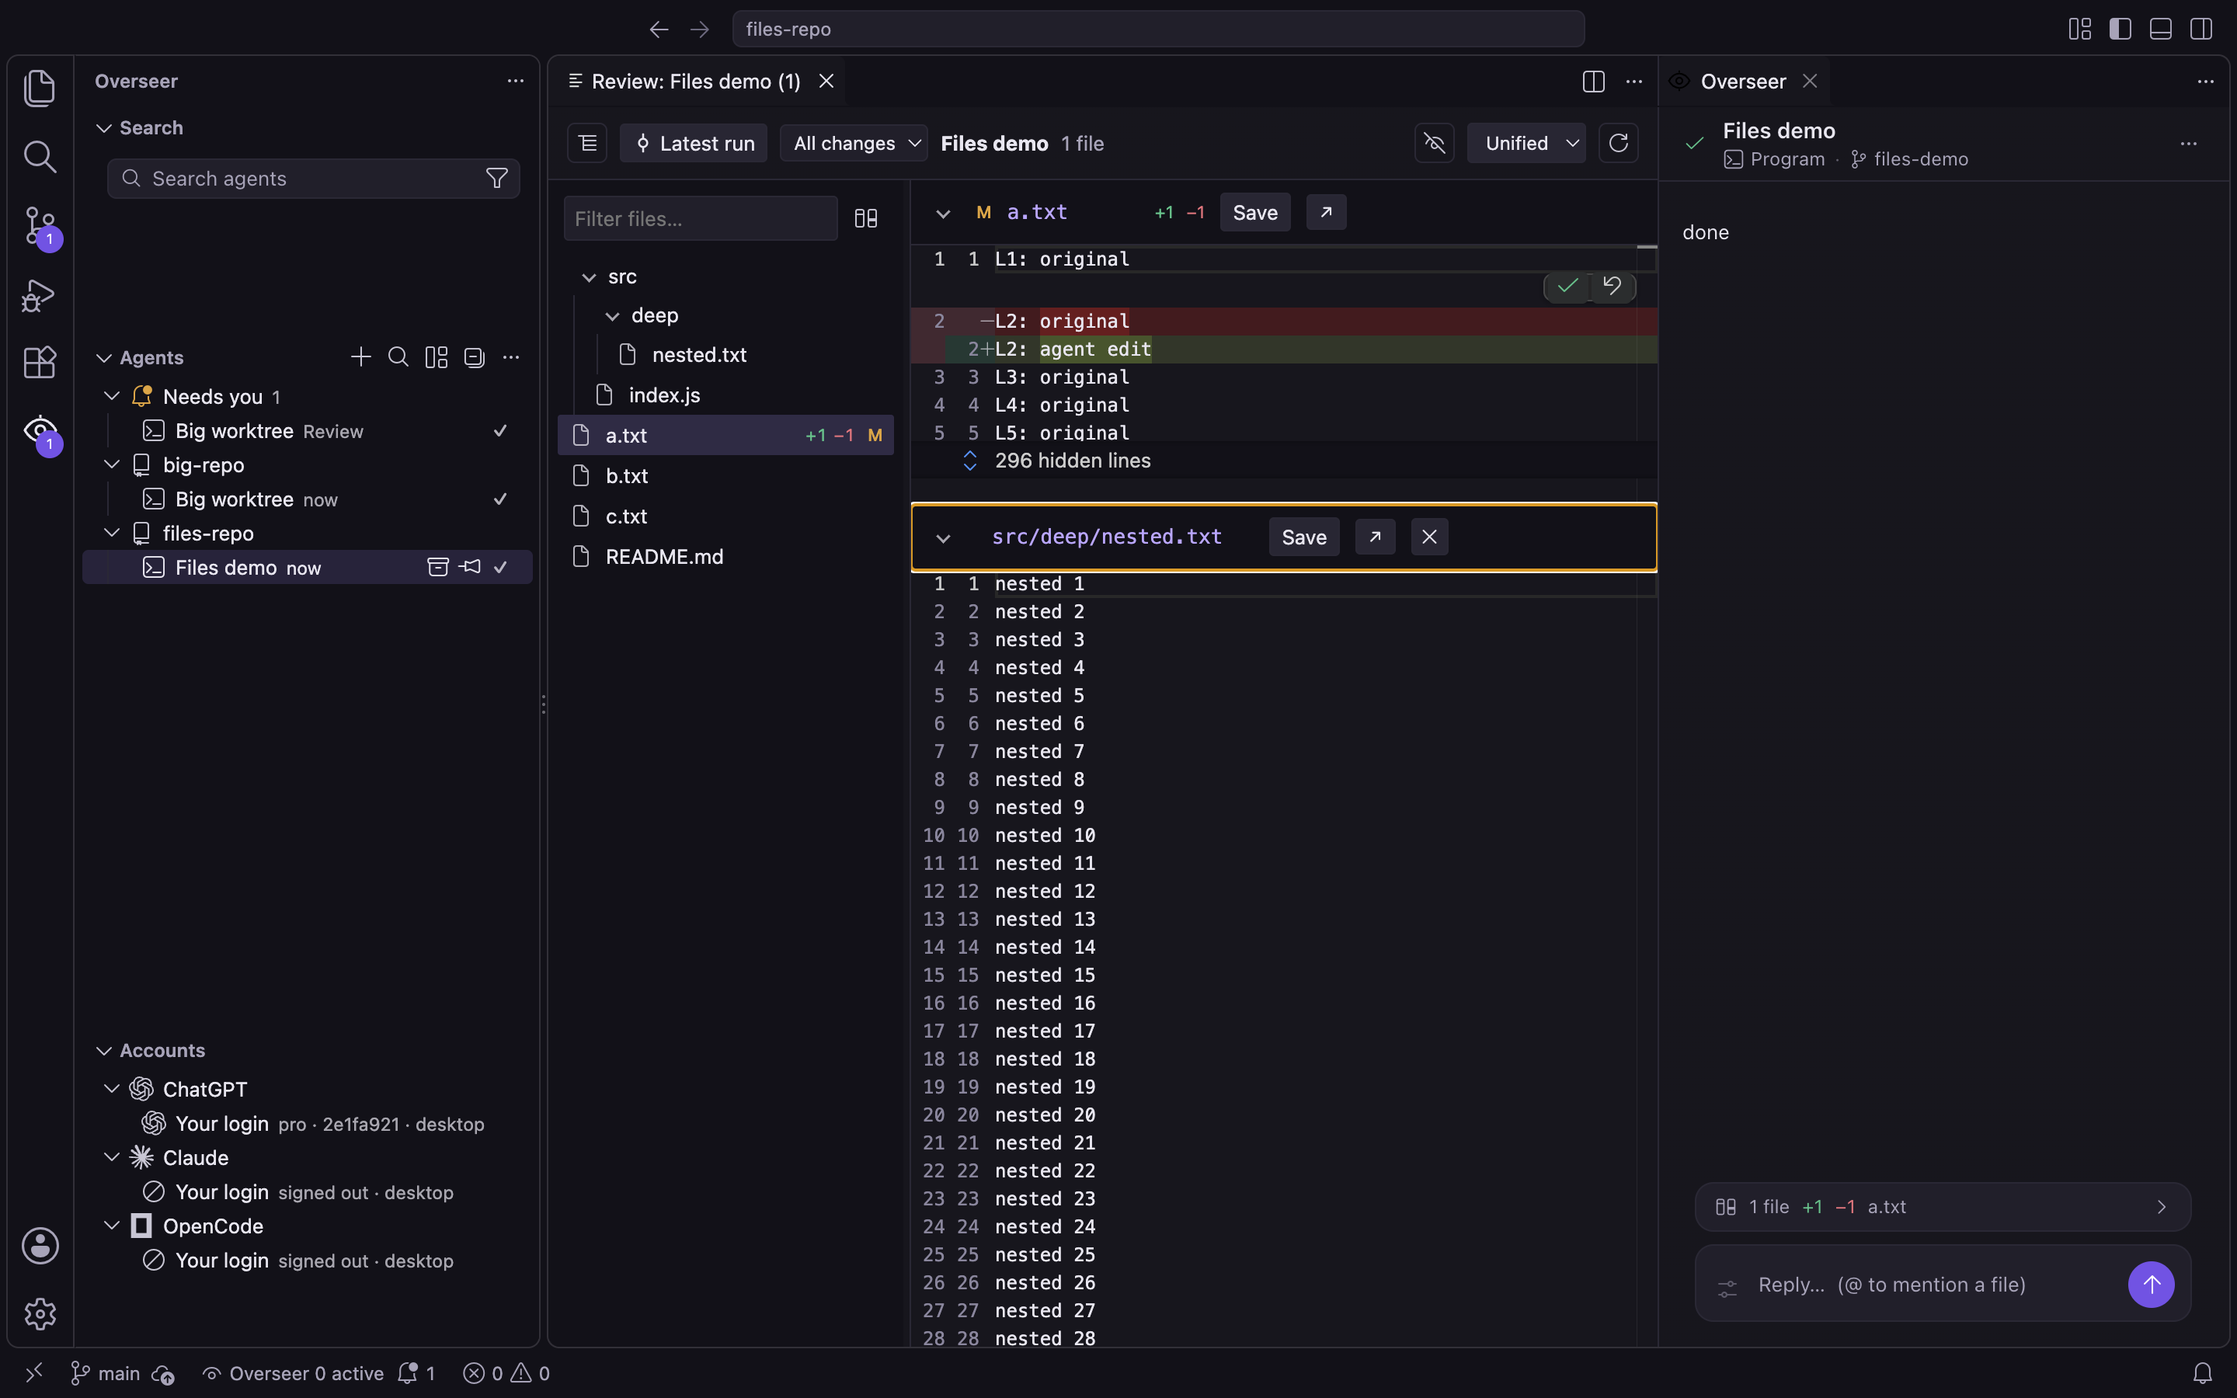
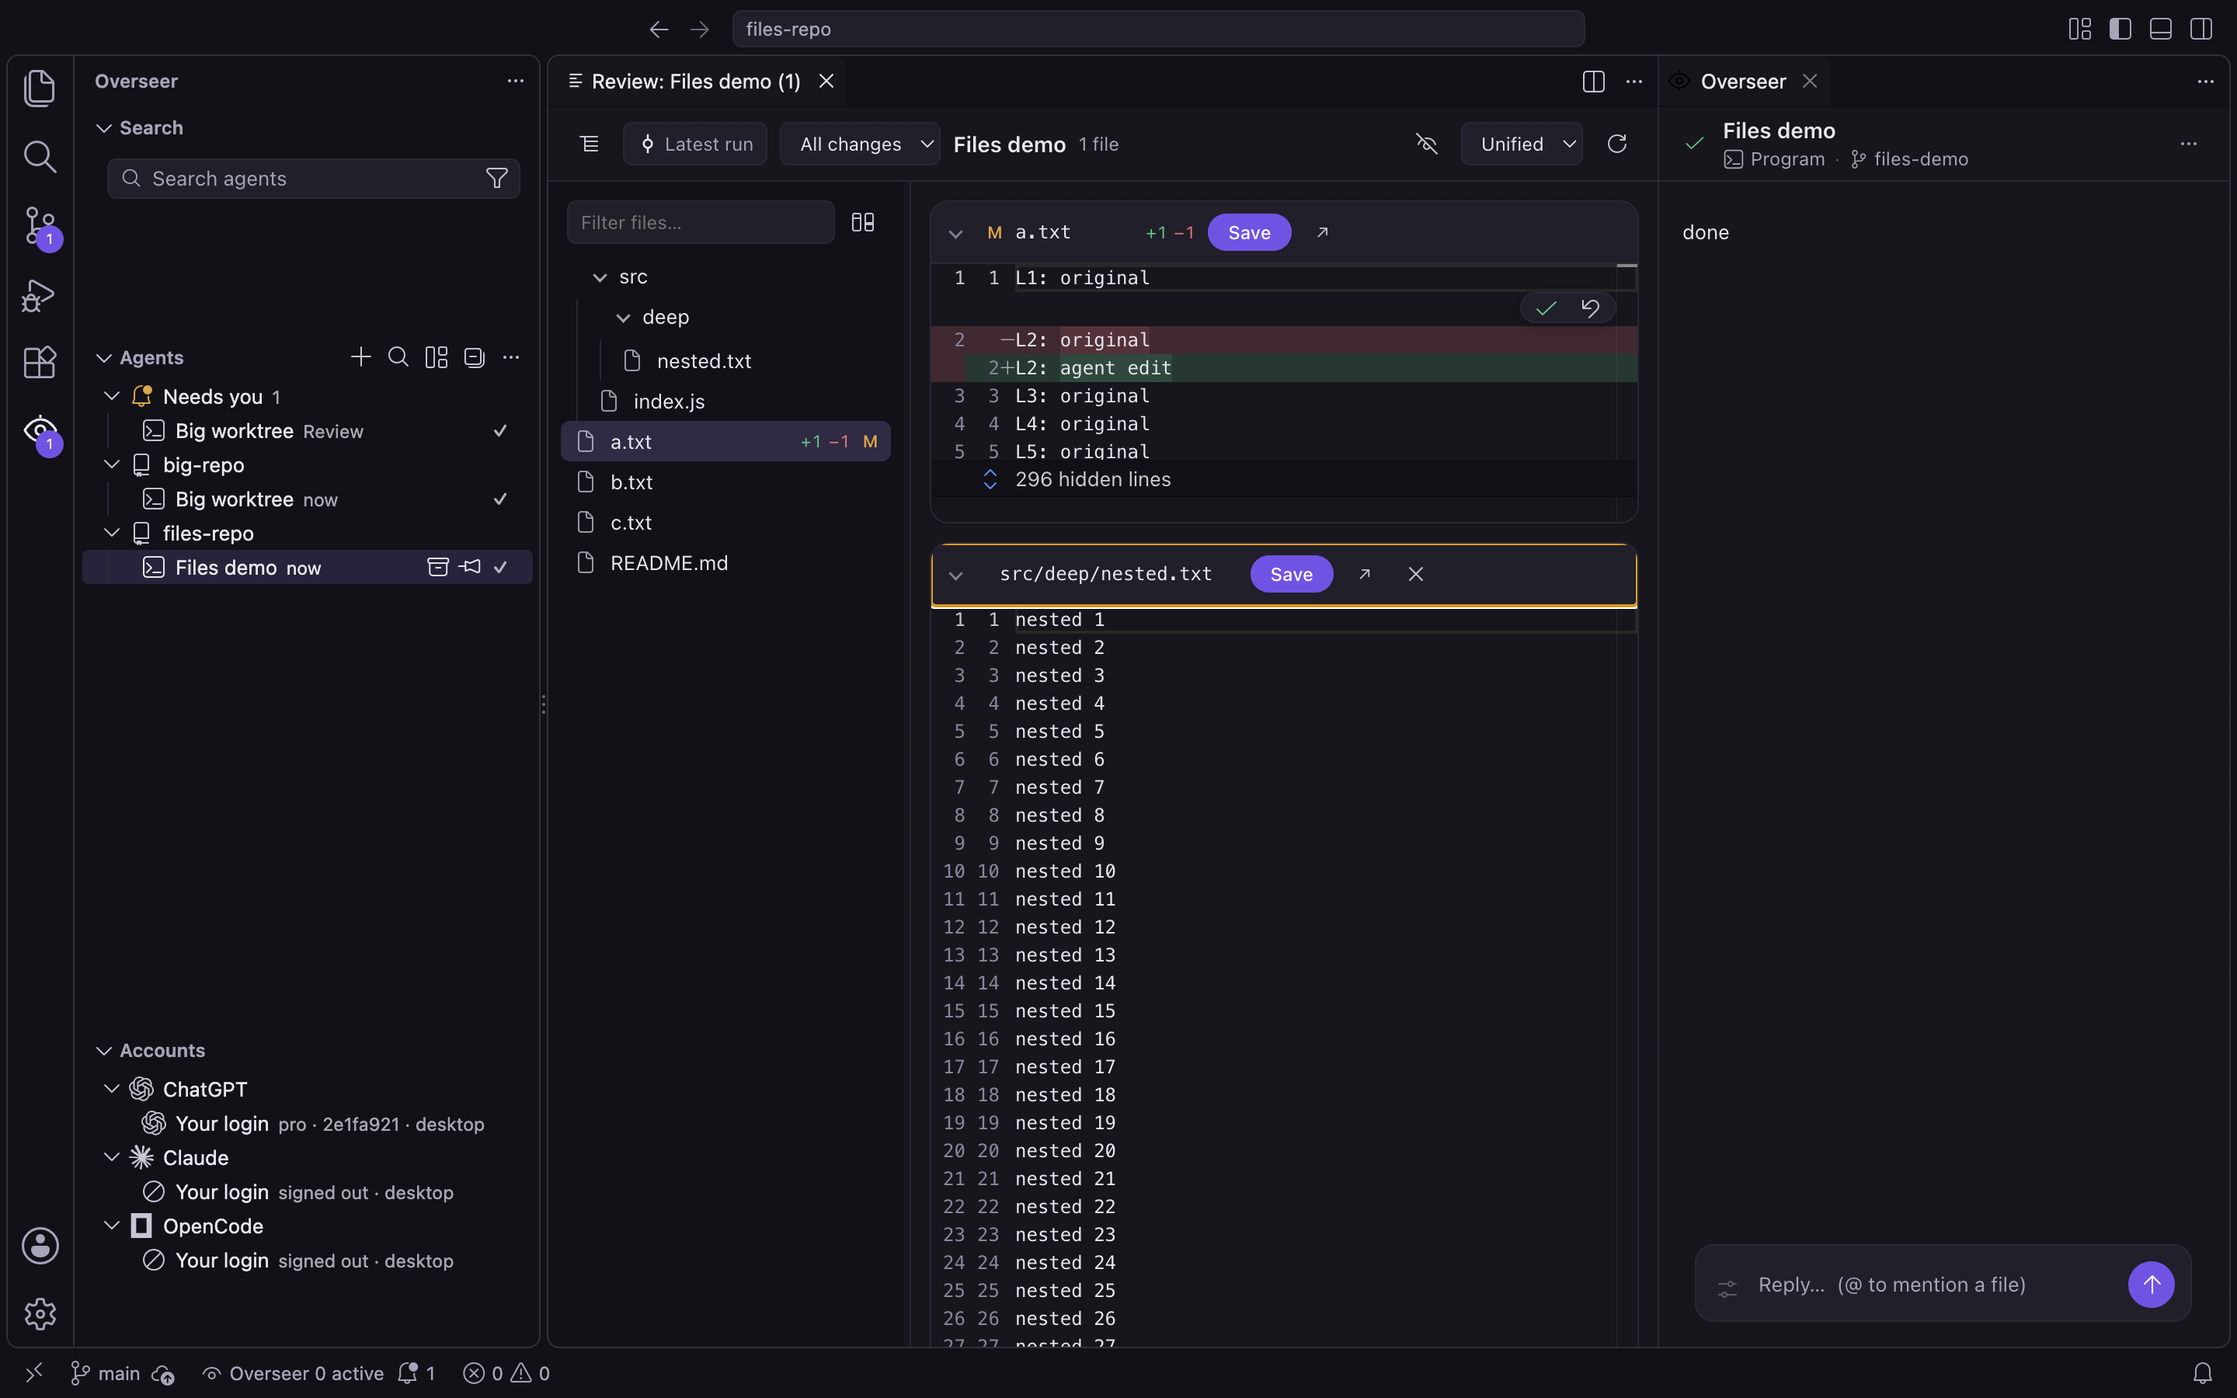
feat(review): Overseer's own reviewer (AC-101)
The review takes Overseer's design instead of VS Code's diff styling:
Overseer's token sheet (surfaces, type scale, radii, motion), a header
led by the agent's name with quiet icon controls, the side-bar style
file navigator, each file as a card with a pinned header and a pill Save,
hunk actions as a small pill, and Overseer-styled empty, loading and
problem states. Behavior, ids and controls are unchanged.

Monaco's diff colors now come from the theme when VS Code gives them as
rgb()/rgba(); before, those were dropped and Monaco's own olive
inserted-text color showed through in every theme.

The review, hunks, follow, scopes and review-files scenarios pass on
the restyled build.

Changed region(s): [[0.25, 0.0933, 0.75, 0.9644], [0.6562, 0.0933, 0.6875, 0.1244]]

diff --git a/extension/branch-diff/review/browser.css b/extension/branch-diff/review/browser.css
@@ -139,3 +139,80 @@ button.open-native { min-width: 26px; }
 .close-file { display: flex; align-items: center; justify-content: center; padding: 3px; }
 .close-file[hidden] { display: none; }
 .diff-file.browsed .stats { display: none; }
+
+/* ---------------------------------------------------------------------------------------------
+   Overseer's own reviewer (AC-101). Everything below restyles the review with Overseer's design
+   (media/tokens.css: surfaces, type scale, radii, motion) instead of VS Code's diff styling. It only
+   changes appearance: every control, id and behavior above stays as it was.
+   --------------------------------------------------------------------------------------------- */
+body { font-family: var(--ov-font); font-size: var(--ov-font-md); color: var(--ov-text); -webkit-font-smoothing: antialiased; }
+button, select { border: 1px solid transparent; background: transparent; border-radius: var(--ov-radius-control); padding: 4px 8px; color: var(--ov-text);
+  transition: background-color var(--ov-motion-fast) var(--ov-ease), border-color var(--ov-motion-fast) var(--ov-ease), color var(--ov-motion-fast) var(--ov-ease); }
+button:hover:not(:disabled) { background: var(--ov-hover); }
+button:focus-visible, a:focus-visible, summary:focus-visible, select:focus-visible, #resize:focus-visible { outline: 1px solid var(--ov-focus); outline-offset: -1px; }
+@media (prefers-reduced-motion: reduce) { button, select, .file, .folder summary { transition: none; } }
+
+/* Header: the agent's name leads, controls are quiet icons. */
+#toolbar { min-height: 48px; padding: 0 var(--ov-space-3); gap: var(--ov-space-2); border-bottom: 1px solid var(--ov-border); background: transparent; }
+#comparison { font-size: var(--ov-font-lg); font-weight: var(--ov-weight-semibold); color: var(--ov-text); }
+#total, #loading-stage, #base-label { color: var(--ov-muted); font-size: var(--ov-font-sm); }
+button.icon { width: 28px; height: 28px; border-radius: var(--ov-radius-control); color: var(--ov-icon); }
+button.icon:hover { background: var(--ov-hover); }
+button.base { height: 28px; padding: 0 var(--ov-space-2); color: var(--ov-text); background: var(--ov-raised); border-color: var(--ov-border); }
+#scope, #layout { height: 28px; background: var(--ov-raised); color: var(--ov-text); border: 1px solid var(--ov-border); border-radius: var(--ov-radius-control); padding: 0 var(--ov-space-2); }
+#follow[aria-pressed="true"] { background: var(--ov-accent-soft); color: var(--ov-accent); outline: 0; border-color: transparent; }
+#follow[data-state="paused"] { color: var(--ov-waiting); }
+#notice { padding: var(--ov-space-2) var(--ov-space-3); background: var(--ov-raised); color: var(--ov-text); border-bottom: 1px solid var(--ov-border); box-shadow: inset 3px 0 0 var(--ov-waiting); font-size: var(--ov-font-sm); }
+
+/* File navigator: Overseer's side-bar list. */
+#navigator { background: var(--ov-chrome); padding: var(--ov-space-3) var(--ov-space-2); }
+#resize { border-right: 1px solid var(--ov-border); }
+#resize:hover, #resize:focus { background: var(--ov-accent-soft); }
+#filter { height: 28px; padding: 0 var(--ov-space-2); background: var(--ov-input-bg); color: var(--ov-input-fg); border: 1px solid var(--ov-border); border-radius: var(--ov-radius-control); font-size: var(--ov-font-sm); }
+#filter:focus { outline: 0; border-color: var(--ov-focus); }
+#changes-only { width: 28px; height: 28px; border-radius: var(--ov-radius-control); color: var(--ov-icon); }
+#changes-only[aria-pressed="true"] { background: var(--ov-accent-soft); color: var(--ov-accent); border-color: transparent; }
+.folder summary, .file { min-height: 26px; padding: 3px var(--ov-space-2); border-radius: var(--ov-radius-control); font-size: var(--ov-font-md); color: var(--ov-text); transition: background-color var(--ov-motion-fast) var(--ov-ease); }
+.folder summary:hover, .file:hover { background: var(--ov-hover); }
+.file.active { background: var(--ov-selected-strong); color: var(--ov-selected-fg); }
+.folder-children { border-left-color: var(--ov-border); }
+.file .codicon { color: var(--ov-icon); }
+.status { font-size: var(--ov-font-xs); font-weight: var(--ov-weight-semibold); letter-spacing: .02em; }
+.status-A, .status-U, .additions { color: var(--ov-added); }
+.status-D, .deletions { color: var(--ov-removed); }
+.status-M, .status-R { color: var(--ov-modified); }
+.folder summary.has-changes::after { background: var(--ov-modified); }
+.tree-note { color: var(--ov-muted); font-size: var(--ov-font-sm); }
+
+/* Each file is a card; its header stays pinned while its lines scroll by. */
+#diffs { padding: var(--ov-space-3) var(--ov-space-3) var(--ov-space-8); }
+.diff-file { margin-bottom: var(--ov-space-3); border: 1px solid var(--ov-border); border-radius: var(--ov-radius-card); background: var(--ov-bg); overflow: clip; }
+.file-header { top: calc(-1 * var(--ov-space-3)); min-height: 40px; padding: 0 var(--ov-space-2) 0 var(--ov-space-1); gap: var(--ov-space-2); background: var(--ov-raised); border-bottom: 1px solid var(--ov-border); }
+.diff-file.collapsed .file-header { border-bottom-color: transparent; }
+.file-path { font-family: var(--ov-mono); font-size: var(--ov-font-sm); color: var(--ov-text); }
+.file-path[href]:hover, .file-path[href]:focus-visible { color: var(--ov-accent); text-decoration: none; }
+.fold { width: 24px; height: 24px; color: var(--ov-muted); }
+.stats { font-size: var(--ov-font-xs); font-variant-numeric: tabular-nums; gap: var(--ov-space-1); }
+.unsaved, .edit-status, .file-loading { color: var(--ov-muted); font-size: var(--ov-font-xs); }
+.unsaved:not(:empty) { padding: 1px var(--ov-space-2); border-radius: var(--ov-radius-pill); background: var(--ov-accent-soft); color: var(--ov-text); }
+button.save-file { height: 24px; padding: 0 var(--ov-space-3); border-radius: var(--ov-radius-pill); background: var(--ov-accent-gradient); color: var(--ov-accent-fg); font-weight: var(--ov-weight-medium); font-size: var(--ov-font-sm); }
+button.save-file:hover:not(:disabled) { background: var(--ov-accent-bg-hover); }
+button.open-native, button.close-file { height: 24px; min-width: 24px; padding: 0 var(--ov-space-1); color: var(--ov-icon); }
+.diff-body { background: var(--ov-bg); }
+
+/* Hunk actions: a small pill on the strip above each hunk. */
+.hunk-actions { height: 20px; padding: 0 3px; gap: 2px; border-radius: var(--ov-radius-pill); background: var(--ov-raised); border: 1px solid var(--ov-border); box-shadow: 0 2px 8px var(--ov-shadow); }
+.hunk-actions button { min-width: 22px; height: 16px; padding: 0 4px; border-radius: var(--ov-radius-pill); background: transparent; color: var(--ov-icon); }
+.hunk-actions button:hover:not(:disabled) { background: var(--ov-hover); }
+.hunk-actions .hunk-accept { color: var(--ov-done); }
+.hunk-actions .hunk-reject:hover:not(:disabled) { color: var(--ov-removed); }
+.hunk-badge { color: var(--ov-done); }
+.follow-line { background: var(--ov-accent-soft); }
+
+/* Empty, loading and problem states. */
+.empty, .file-problem, .large-diff, .loading { color: var(--ov-muted); font-size: var(--ov-font-sm); line-height: var(--ov-line-body); }
+.empty { margin: var(--ov-space-10) auto; max-width: 420px; text-align: center; }
+.loading { justify-content: center; padding: var(--ov-space-6); }
+.spinner { border-color: var(--ov-accent); border-right-color: transparent; }
+.large-diff { padding: var(--ov-space-4) var(--ov-space-5); }
+.large-diff .load-diff { background: var(--ov-raised); border-color: var(--ov-border); }

diff --git a/extension/branch-diff/review/panel.js b/extension/branch-diff/review/panel.js
@@ -117,7 +117,10 @@ class ReviewManager {
   async attach(session, panel, { waitForComparison = false } = {}) {
     const assets = vscode.Uri.joinPath(this.context.extensionUri, 'branch-diff', 'dist');
     const codicons = vscode.Uri.joinPath(this.context.extensionUri, 'media', 'vendor', 'codicons');
-    panel.webview.options = { enableScripts: true, localResourceRoots: [assets, codicons] };
+    // Overseer's design tokens (AC-101): the review uses the same sheet as every Overseer view.
+    const media = vscode.Uri.joinPath(this.context.extensionUri, 'media');
+    const tokens = vscode.Uri.joinPath(media, 'tokens.css');
+    panel.webview.options = { enableScripts: true, localResourceRoots: [assets, media] };
     this.panels.set(session, panel);
     const sendSnapshot = async () => {
       if (session.display) await panel.webview.postMessage(this.message(session, session.display));
@@ -195,7 +198,7 @@ class ReviewManager {
     const baseIcon = '<svg aria-hidden="true" width="14" height="14" viewBox="0 0 16 16"><circle cx="8" cy="8" r="3" fill="none" stroke="currentColor" stroke-width="1.5"/><path d="M8 1v4M8 11v4" stroke="currentColor" stroke-width="1.5"/></svg>';
     panel.webview.html = `<!doctype html><html><head><meta charset="UTF-8"><meta name="viewport" content="width=device-width,initial-scale=1">
 <meta http-equiv="Content-Security-Policy" content="default-src 'none'; script-src 'nonce-${nonce}'; style-src ${panel.webview.cspSource} 'unsafe-inline'; font-src ${panel.webview.cspSource}; img-src ${panel.webview.cspSource} data:; worker-src blob:; connect-src 'none';">
-<link rel="stylesheet" href="${escapeAttribute(panel.webview.asWebviewUri(vscode.Uri.joinPath(codicons, 'codicon.css')))}"><link rel="stylesheet" href="${asset('review.css')}"><title>Overseer Review</title></head>
+<link rel="stylesheet" href="${escapeAttribute(panel.webview.asWebviewUri(vscode.Uri.joinPath(codicons, 'codicon.css')))}"><link rel="stylesheet" href="${escapeAttribute(panel.webview.asWebviewUri(tokens))}"><link rel="stylesheet" href="${asset('review.css')}"><title>Overseer Review</title></head>
 <body data-home="${escapeAttribute(require('os').homedir())}" data-run-id="${escapeAttribute(session.overseer?.runId || '')}" data-monaco="${asset('monaco.js')}" data-monaco-css="${asset('monaco.css')}" data-repository="${escapeAttribute(session.repo.rootUri.toString())}" data-mode="${escapeAttribute(session.mode)}" data-target="${escapeAttribute(session.target || '')}"><header id="toolbar"><button id="toggle-navigator" class="icon" aria-label="Toggle file navigator" title="Toggle file list" aria-expanded="true"><span class="codicon codicon-list-tree" aria-hidden="true"></span></button><button id="base" class="base" title="Comparison base">${baseIcon}<span id="base-label">Comparison</span></button><select id="scope" aria-label="Changes to show" title="Changes to show"><option value="all">All changes</option><option value="staged">Staged</option><option value="unstaged">Unstaged</option><option value="untracked">Untracked</option></select><strong id="comparison">Review</strong><span id="total"></span><span id="loading-stage" role="status"></span><span class="spacer"></span><button id="follow" class="icon" aria-pressed="false" aria-label="Follow the agent" title="Follow the agent's edits"><span class="codicon codicon-eye-closed" aria-hidden="true"></span></button><span id="follow-state" class="visually-hidden" role="status"></span><select id="layout" aria-label="Diff layout" title="Diff layout"><option value="unified">Unified</option><option value="split">Split</option></select><button id="refresh" class="icon" aria-label="Refresh" title="Refresh"><span class="codicon codicon-refresh" aria-hidden="true"></span></button></header>
 <div id="notice" role="status" hidden></div><div id="workspace-note" role="note"></div><main id="review"><nav id="navigator" aria-label="Files"><div id="nav-head"><input id="filter" placeholder="Filter files…" aria-label="Filter files"><button id="changes-only" aria-pressed="true" title="Changes only: show only changed files. Click to browse every file in the worktree." aria-label="Changes only"><span class="codicon codicon-diff" aria-hidden="true"></span></button></div><div id="tree" role="tree" aria-label="File tree"></div></nav><div id="resize" role="separator" tabindex="0" aria-label="Resize file navigator" aria-orientation="vertical"></div><section id="diffs" aria-label="All file diffs" tabindex="0"><p class="empty" role="status">Finding changed files…</p></section></main>
 <script type="module" nonce="${nonce}" src="${asset('review.js')}"></script></body></html>`;

diff --git a/extension/branch-diff/review/browser.js b/extension/branch-diff/review/browser.js
@@ -564,6 +564,16 @@ function rejectHunk(row, change, key) {
   replaceText(row.modified, next);
   editing.save(row);
 }
+// Theme variables arrive as hex or rgb()/rgba(); Monaco themes take hex. Without this an rgba value
+// was dropped and Monaco's own olive inserted-text color showed through (Overseer, AC-101).
+function hexColor(value) {
+  if (/^#[\da-f]{6}([\da-f]{2})?$/i.test(value)) return value;
+  const m = /^rgba?\(\s*(\d+)[,\s]+(\d+)[,\s]+(\d+)(?:[,\s/]+([\d.]+%?))?\s*\)$/i.exec(value);
+  if (!m) return undefined;
+  const alpha = m[4] === undefined ? 1 : m[4].endsWith('%') ? parseFloat(m[4]) / 100 : parseFloat(m[4]);
+  const hex = n => Math.max(0, Math.min(255, Math.round(n))).toString(16).padStart(2, '0');
+  return '#' + hex(+m[1]) + hex(+m[2]) + hex(+m[3]) + (alpha < 1 ? hex(alpha * 255) : '');
+}
 function theme() {
   if (!monaco) return;
   const high = document.body.classList.contains('vscode-high-contrast') || document.body.classList.contains('vscode-high-contrast-light');
@@ -571,8 +581,8 @@ function theme() {
   const css = getComputedStyle(document.body); const colors = {};
   for (const key of ['editor.background', 'editor.foreground', 'editorLineNumber.foreground', 'editor.selectionBackground',
     'diffEditor.insertedTextBackground', 'diffEditor.removedTextBackground', 'diffEditor.insertedLineBackground', 'diffEditor.removedLineBackground']) {
-    const value = css.getPropertyValue('--vscode-' + key.replaceAll('.', '-')).trim();
-    if (/^#[\da-f]{6}([\da-f]{2})?$/i.test(value)) colors[key] = value;
+    const value = hexColor(css.getPropertyValue('--vscode-' + key.replaceAll('.', '-')).trim());
+    if (value) colors[key] = value;
   }
   monaco.editor.defineTheme('branch-diff', { base: high ? (light ? 'hc-light' : 'hc-black') : (light ? 'vs' : 'vs-dark'), inherit: true, rules: [], colors });
   monaco.editor.setTheme('branch-diff');

diff --git a/test/ui/scenario-theme.js b/test/ui/scenario-theme.js
@@ -17,7 +17,7 @@ const AUDIT = `(() => { const bad = []; for (const e of document.querySelectorAl
 
 function lint() {
   const files = ['tokens.css', 'base.css', 'chat.css', 'dashboard.css', 'new-task.css', 'run-panel.css', 'search-view.css', 'search-view.js', 'ui.js', 'chat.js', 'conversation.js', 'dashboard.js', 'composer.js', 'grid.js',
-    'prompt-tools.js', 'markdown.js', 'files.js', 'new-task.js', 'run-panel.js'].map(f => 'extension/media/' + f)
+    'prompt-tools.js', 'markdown.js', 'new-task.js', 'run-panel.js'].map(f => 'extension/media/' + f)
     .concat(['extension/src/output-panel.js', 'extension/src/command-center.js', 'extension/src/new-task.js', 'extension/src/webview-html.js', 'extension/branch-diff/review/browser.css', 'extension/branch-diff/review/panel.js']);
   const hits = [];
   for (const f of files) {
